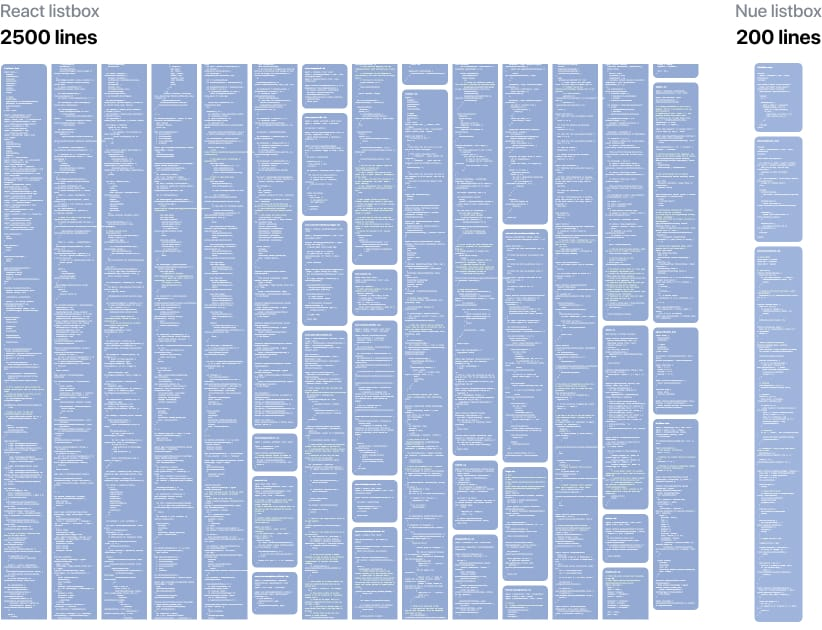
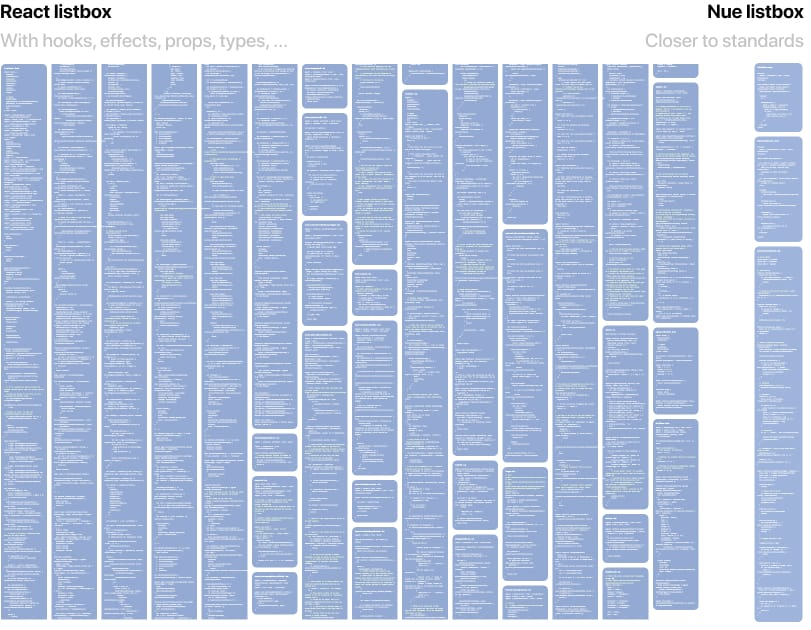
Improved compare images

Changed region(s): [[0.0, 0.0, 1.0, 0.9952], [0.0617, 0.8444, 0.0925, 0.8746]]

diff --git a/docs/nuejs/index.md b/docs/nuejs/index.md
@@ -24,11 +24,11 @@ The biggest benefit with Nue is that you need less code to do the same thing. It
       - Tanya Fox
       - Hellen Schmidt
 
-The [React version](https://headlessui.com/react/listbox) is 2500 lines of JavaScript. Nue version is about ten times smaller and has about 70% of the features:
+The [React version](https://headlessui.com/react/listbox) is 2500 lines of JavaScript. Nue version is about ten times smaller even with 50-80% of the features:
 
 [image-link]
-  src: /docs/img/react-listbox.jpg
-  caption: The amount of code required to build a basic listbox UI component. Click to compare.
+  src: /docs/img/react-listbox-big.jpg
+  caption: Click to see details 👉
   class: compare-shot
   href: /compare/component.html
 

diff --git a/tools/index.md b/tools/index.md
@@ -13,7 +13,7 @@ Eventually Nue is a complete frontend development toolset. An alternative to eco
   ### Done
 
   * ## Nue JS
-    Build user interfaces with 10x less code
+    Build user interfaces with less code
 
     Replaces [React][react], [Vue][vue], and [Svelte][svelte]
 
@@ -48,7 +48,7 @@ Eventually Nue is a complete frontend development toolset. An alternative to eco
     Replaces [MDX][mdx], [MDC][mdc], and [Markdoc][markdoc]
 
   * ## Nuekit
-    Build websites and webapps with 10x less code
+    Build websites and webapps with less code
 
     Replaces [Vite][vite], [Next.js][next], [Nuxt.js][nuxt], and [Astro][astro]
 

diff --git a/index.md b/index.md
@@ -8,8 +8,8 @@ include: [home, bunny/video]
 
 [image-link]
   href: /compare/component.html
-  src: /home/img/compare.jpg
-  caption: Listbox component • Click for details 👉
+  src: /home/img/compare-react.jpg
+  caption: The difference in coding style • Click for details 👉
   class: compare-shot
 
 
